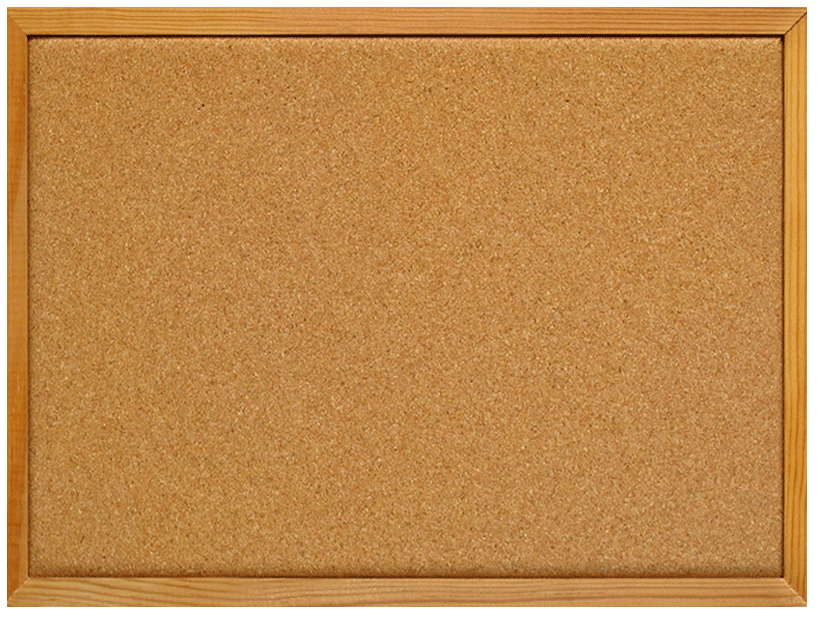
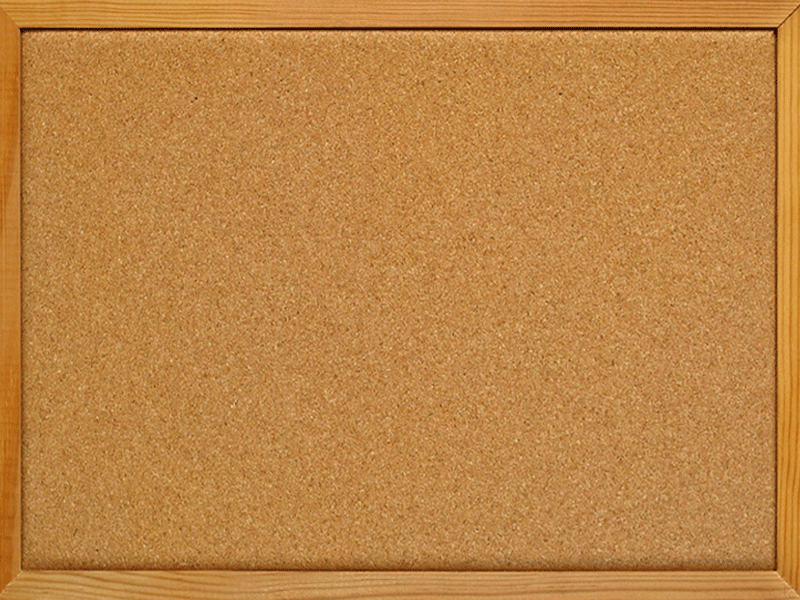
party info page and finessing

Changed region(s): [[0.0, 0.0, 1.0, 1.0]]

diff --git a/assets/css/main.css b/assets/css/main.css
@@ -1,8 +1,8 @@
 @import url('https://fonts.googleapis.com/css2?family=Open+Sans&display=swap');
+@import url('https://fonts.googleapis.com/css2?family=Kalam&display=swap');
 
 /* ---------- Reset & Global ---------- */
 * {
-  list-style: none;
   text-decoration: none;
   margin: 0;
   padding: 0;
@@ -32,6 +32,8 @@ body {
   min-height: 100vh;
 }
 
+ul, ol {list-style: none;}
+
 .center{
 object-position: 50% 50%;
 }
@@ -56,7 +58,7 @@ p {
   left: 0;
   width: 250px;
   height: 100%;
-  padding: 20px 0;
+  padding: 20px 0 0 0;
   transition: all 0.5s ease;
   display: flex;
   flex-direction: column;
@@ -218,12 +220,137 @@ p {
   transition: max-height 0.2s ease-out;
   background-color: #f1f1f1;
 }
+
+/* ---------- Quest Board & Party Info ---------- */
+
+div#frame {
+  background: url("../images/misc/cork-board.png") no-repeat;
+	background-size: 100% 100%;
+  width: 100%;
+  max-width: 800px;
+  height: 600px;
+  padding-top: 35px;
+  padding-left: 35px;
+}
+
+.help {
+  width: 75%;
+  min-height: 50px;
+  height: fit-contents;
+  box-shadow: 0 3px 6px rgba(0,0,0,.25);
+  -webkit-box-shadow: 0 3px 6px rgba(0,0,0,.25);
+  -moz-box-shadow: 0 3px 6px rgba(0,0,0,.25);
+  float: left;
+  margin-left: 12.5%;
+  margin-right: 12.5%;
+  margin-top: 35px;
+  margin-bottom: 35px;
+  border: 1px solid rgba(0,0,0,.25);
+  background-image : url("../images/misc/quest-paper.png");
+	display: inline-grid;
+  grid-template-columns: 1fr 2fr 1fr;
+}
+
+.note {
+  width: 160px;
+  height: 160px;
+  box-shadow: 0 3px 6px rgba(0,0,0,.25);
+  -webkit-box-shadow: 0 3px 6px rgba(0,0,0,.25);
+  -moz-box-shadow: 0 3px 6px rgba(0,0,0,.25);
+  float: left;
+  margin: 8px;
+  border: 1px solid rgba(0,0,0,.25);
+}
+
+.pin {
+  border-radius: 50%;
+  width: 20px;
+  height: 20px;
+  -webkit-box-shadow: 0 3px 6px rgb(0 0 0 / 55%);
+  -moz-box-shadow: 0 3px 6px rgba(0,0,0,.55);
+  box-shadow: 0 3px 6px rgb(0 0 0 / 55%);
+  margin: 0 auto;
+  margin-top: 2px;
+  background-color: -moz-radial-gradient(45px 45px 45deg, circle cover, #a19d9450%, black 100%);
+  background-image: -webkit-radial-gradient(45px 45px, circle cover, #a19d94, black);
+	background-image: radial-gradient(#a19d94 50%, black 100%);
+}
+
+.sticky {
+  transform: rotate(-3.5deg);
+  -webkit-transform: rotate(-3.5deg);
+  -moz-transform: rotate(-3.5deg);
+  background-image : url("../images/misc/quest-paper.png");
+}
+
+.helptext{
+  font-family: 'Kalam', cursive;
+	text-align: center;
+	margin: 5px;
+	padding-top: 5px;
+	font-size: 25px;
+}
+
+.jobtext{
+  font-family: 'Kalam', cursive;
+  margin: 5px;
+  padding-top: 5px;
+}
+
+.party_page h2{
+		color: var(--light-accent);
+}
+
+
+.coin img{
+ height: 50px;
+}
+
+.coin {
+  display: flex;
+  height: 60px;
+  width: 180px;
+  align-items: center;
+  justify-content: space-around;
+  border-radius: 10%;
+  background: white;
+  font-size: 25px ;
+  padding: 5px;
+}
+
+.loot {
+display: grid; 
+grid-template-columns: 1fr 3fr;
+column-gap: 10%;
+}
+
+.loot h3 {
+  color: var(--text-dark);
+  text-decoration: underline;
+  margin-bottom: 10px;
+}
+
+.loot h4 {
+  color: var(--text-dark)
+}
+
+.loot ul {
+  list-style-type: disc;
+  list-style-position: outside;
+  margin-left: 0;
+  margin-bottom: 1rem;
+  padding-left: 1.25rem; 
+}
+
+.loot li {
+  margin: 0.25rem 0;
+}
+
 /* ---------- Calendars & Recaps ---------- */
 #TOC h2 {
   color: var(--light-accent);
   font-weight: bold;
 }
-
 
 
 .recap a {
@@ -476,6 +603,13 @@ img.letter {
 
 .image-slider img {
 	user-select: none;
+}
+
+.thanks img {
+  width: 15%;
+  opacity: 0.8;
+  margin-left: 5%;
+  float: bottom;
 }
 
 /* ---------- Table Formatting ---------- */

diff --git a/_includes/lore/fiction.html b/_includes/lore/fiction.html
@@ -1,5 +1,8 @@
 <div class="world-fiction">
 <h2>Books</h2>
+<p><strong>A History of Occult Practices of Gilvry.</strong> A book on occultism recovered from a 
+    necromancer in Arajin Vale.</p>
+
 <p><strong>Tweet's Tome of Beasts of the Heartlands.</strong> A book sold to Zalner Tallstep, 
     contains information about assorted mundane and magical beasts, including krenshars.</p>
 

diff --git a/_includes/sidebar.html b/_includes/sidebar.html
@@ -52,4 +52,10 @@
       </a>
     </li>
   </ul>
+   <div style="flex-grow: 1;"></div>
+  <div class="thanks">
+    <img src="{{ site.baseurl }}/assets/images/misc/centaur.png" 
+      alt="The indespensable website creator"
+      title="Jamulus Frame, the website's human muse.">
+  </div>
 </div>

diff --git a/_includes/head.html b/_includes/head.html
@@ -6,7 +6,7 @@
 
   <title>{{ page.title }} | {{ site.title }}</title>
 
-  <link rel="icon" href="/assets/images/logo.png">
+  <link rel="icon" href="{{ site.baseurl }}/assets/images/logo.png">
 
   <link rel="stylesheet" href="{{ site.baseurl }}/assets/css/main.css">
 

diff --git a/index.md b/index.md
@@ -2,5 +2,68 @@
 layout: default
 title: Home
 ---
-
-<h3>Placeholder Content</h3>
+<div class="party_page">
+<h2> Quests / Rumors / Things to follow up on </h2>
+<br>
+<div id='frame'>
+	<a class="help">
+	    <div class='pin'></div>
+	    <div class='helptext'>Help wanted: </div>
+	    <div class='pin'></div>	
+    </a>
+    <a class="note sticky">
+        <div class='pin'></div>
+        <div class='jobtext'> Retrieve a silver ewer from the Renwick Ruins for Lord Ryazan</div>
+    </a>
+</div>
+<br><hr><br>
+<h2>Party loot </h2>
+<div class="loot">
+    <!-- Party Fund -->
+	<div> 
+        <center>
+		    <h3> Party Fund</h3>
+		    <span class="coin" style="border: 3px solid #E5E4E2; ">
+                <img src="{{ site.baseurl}}/assets/images/misc/platinum_coin.jpg">
+                PP: 1
+            </span>
+            <br>
+		    <span class="coin" style="border: 3px solid #FFD700;">
+                <img src="{{ site.baseurl}}/assets/images/misc/gold_coin.jpg">
+                GP: 2
+            </span>
+            <br>
+		    <span class="coin" style="border: 3px solid #C0C0C0;">
+                <img src="{{ site.baseurl}}/assets/images/misc/silver_coin.jpg">
+                SP: 30
+            </span>
+            <br>
+		    <span class="coin" style="border: 3px solid #B87333;">
+                <img src="{{ site.baseurl}}/assets/images/misc/copper_coin.jpg">
+                CP: 40
+            </span>
+            <br>
+        </center>
+	</div> 
+    <!-- Party Inventory -->
+    <div>
+        <h3>Party Loot</h3>
+        <h4>Documents:</h4>
+        <ul class="loot-list">
+            <li>Some maps</li>
+            <li>Some letters</li>
+            <li>A Necromancer's Spellbook</li>
+            <li>Other books, idk</li>
+        </ul>
+        <h4>Magic Items:</h4>
+        <ul>
+            <li><em>Amulet of Natural Armour +1</em> (held by Ellywick)</li>
+            <li>Surzhit, a +1 <em>thundering cold iron longsword</em> (carried by Regill)</li>
+        </ul>
+        <h4>Treasure:</h4>
+        <ul>
+            <li>An extremely valuable orange rock (carried by Regill)</li>
+        </ul>
+    </div>
+</div>
+</div>
